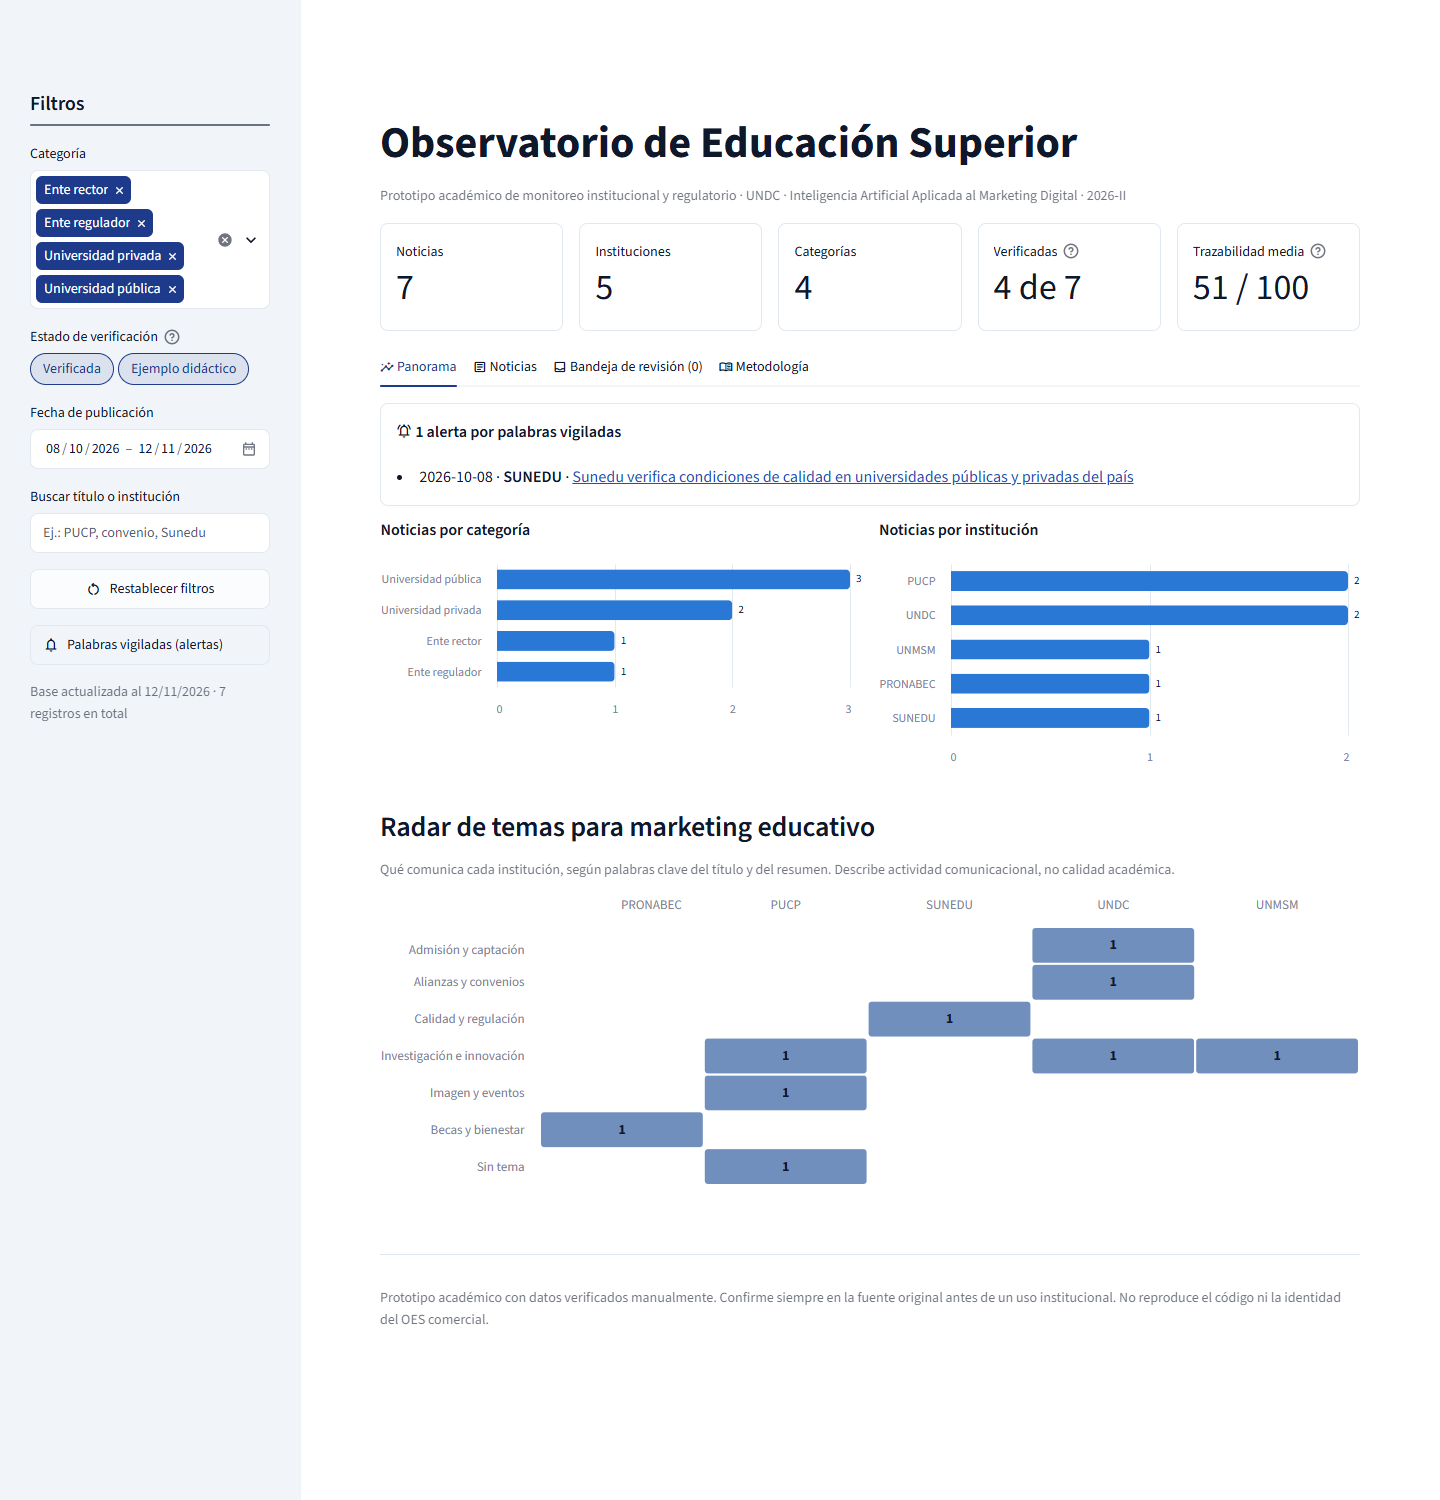
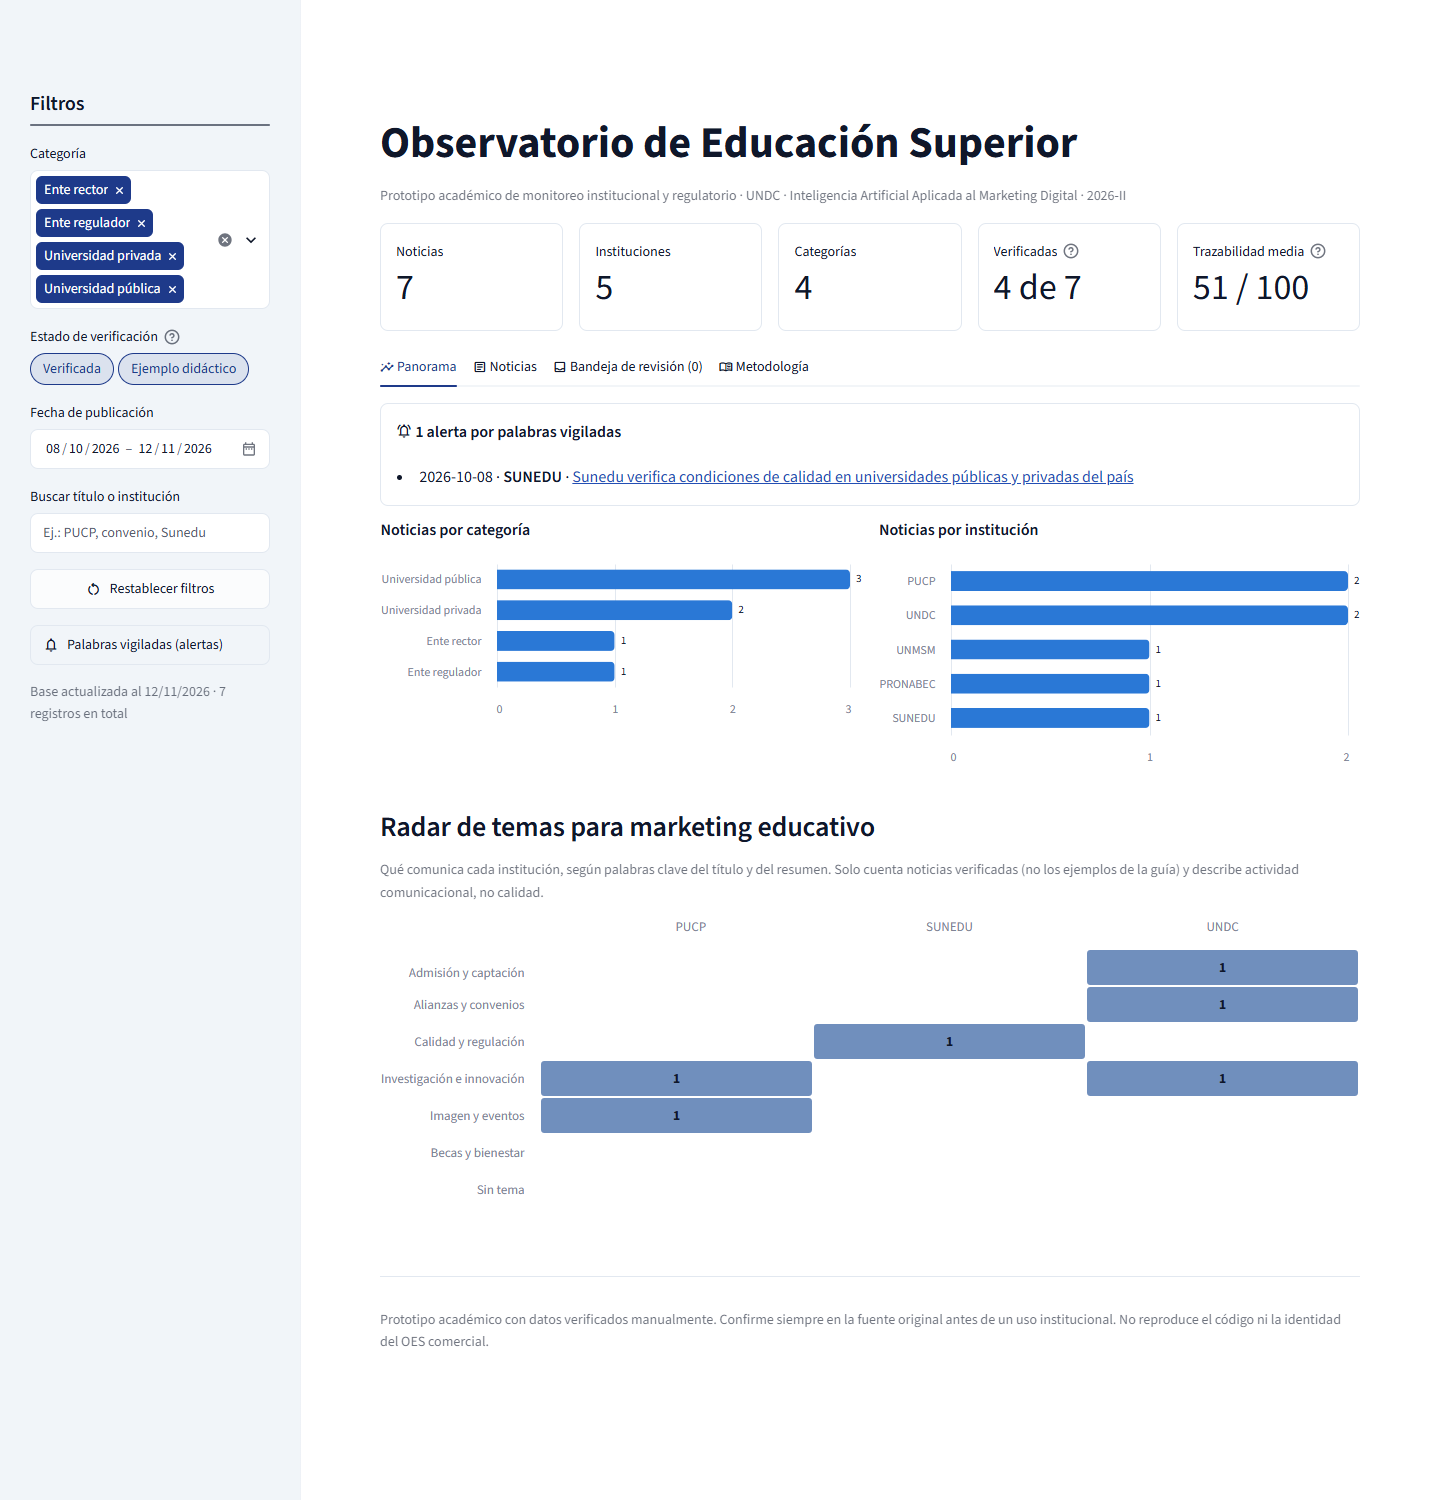
Correcciones de revisión: radar solo con noticias verificadas, verificador con nombre, redacción de gob.pe y README

diff --git a/app.py b/app.py
@@ -9,7 +9,7 @@ import streamlit as st
 import analisis
 import datos
 
-AZUL = "#2a78d6"  # tono único de las barras (paleta validada de la skill dataviz)
+AZUL = "#2a78d6"  # tono único de las barras: contraste 4,4:1 sobre blanco
 RAMPA = ["#cde2fb", "#104281"]  # rampa secuencial azul para el mapa de calor
 GRILLA = "#e2e8f0"
 ESTADOS_VISIBLES = ["Verificada", "Ejemplo didáctico"]
@@ -96,7 +96,8 @@ c5.metric(
     "Trazabilidad media",
     f"{filtrado['trazabilidad'].mean():.0f} / 100" if len(filtrado) else "—",
     border=True,
-    help="Promedio del índice de trazabilidad (ver pestaña Metodología).",
+    help="Promedio del índice de trazabilidad (ver pestaña Metodología). Los ejemplos de la guía valen 0 "
+    "y bajan el promedio: quite «Ejemplo didáctico» en los filtros para ver solo las noticias verificadas.",
 )
 
 pendientes = base[base["estado"] == "Pendiente"]
@@ -144,35 +145,41 @@ with tab_panorama:
 
         st.subheader("Radar de temas para marketing educativo")
         st.caption(
-            "Qué comunica cada institución, según palabras clave del título y del resumen. "
-            "Describe actividad comunicacional, no calidad académica."
+            "Qué comunica cada institución, según palabras clave del título y del resumen. Solo cuenta "
+            "noticias verificadas (no los ejemplos de la guía) y describe actividad comunicacional, no calidad."
         )
         conteo = analisis.radar(filtrado)
-        orden_temas = [*analisis.TEMAS, analisis.SIN_TEMA]
-        celdas = alt.Chart(conteo).encode(
-            y=alt.Y(
-                "tema:N",
-                sort=orden_temas,
-                scale=alt.Scale(domain=orden_temas),
-                title=None,
-                axis=alt.Axis(labelLimit=220, labelFontSize=13),
-            ),
-            x=alt.X("institucion:N", title=None, axis=alt.Axis(orient="top", labelAngle=0, labelFontSize=13)),
-            tooltip=[
-                alt.Tooltip("institucion:N", title="Institución"),
-                alt.Tooltip("tema:N", title="Tema"),
-                alt.Tooltip("noticias:Q", title="Noticias"),
-            ],
-        )
-        tope = max(2, int(conteo["noticias"].max()))
-        mapa = celdas.mark_rect(cornerRadius=4, stroke="white", strokeWidth=2, opacity=1).encode(
-            color=alt.Color("noticias:Q", legend=None, scale=alt.Scale(domain=[0, tope], range=RAMPA))
-        )
-        numeros = celdas.mark_text(fontSize=14, fontWeight="bold").encode(  # texto claro solo sobre celdas oscuras
-            text="noticias:Q",
-            color=alt.condition(alt.datum.noticias >= tope * 0.6, alt.value("white"), alt.value("#0f172a")),
-        )
-        st.altair_chart((mapa + numeros).properties(height=44 * len(orden_temas)), width="stretch")
+        if conteo.empty:
+            st.info(
+                "El radar se llena con noticias verificadas; con los filtros actuales no hay ninguna.",
+                icon=":material/radar:",
+            )
+        else:
+            orden_temas = [*analisis.TEMAS, analisis.SIN_TEMA]
+            celdas = alt.Chart(conteo).encode(
+                y=alt.Y(
+                    "tema:N",
+                    sort=orden_temas,
+                    scale=alt.Scale(domain=orden_temas),
+                    title=None,
+                    axis=alt.Axis(labelLimit=220, labelFontSize=13),
+                ),
+                x=alt.X("institucion:N", title=None, axis=alt.Axis(orient="top", labelAngle=0, labelFontSize=13)),
+                tooltip=[
+                    alt.Tooltip("institucion:N", title="Institución"),
+                    alt.Tooltip("tema:N", title="Tema"),
+                    alt.Tooltip("noticias:Q", title="Noticias"),
+                ],
+            )
+            tope = max(2, int(conteo["noticias"].max()))
+            mapa = celdas.mark_rect(cornerRadius=4, stroke="white", strokeWidth=2, opacity=1).encode(
+                color=alt.Color("noticias:Q", legend=None, scale=alt.Scale(domain=[0, tope], range=RAMPA))
+            )
+            numeros = celdas.mark_text(fontSize=14, fontWeight="bold").encode(  # texto claro solo en celdas oscuras
+                text="noticias:Q",
+                color=alt.condition(alt.datum.noticias >= tope * 0.6, alt.value("white"), alt.value("#0f172a")),
+            )
+            st.altair_chart((mapa + numeros).properties(height=44 * len(orden_temas)), width="stretch")
 
 
 # ----------------------------------------------------------------------------- noticias

diff --git a/tests/test_analisis.py b/tests/test_analisis.py
@@ -49,4 +49,10 @@ def test_alertas_y_radar(db_completa):
     avisos = analisis.alertas(df)
     assert list(avisos["institucion"]) == ["SUNEDU"]  # «Plan de Supervisión»
     radar = analisis.radar(df)
-    assert radar["noticias"].sum() >= len(df)
+    assert radar["noticias"].sum() >= (df["estado"] == "Verificada").sum()  # una noticia puede tener varios temas
+
+
+def test_radar_solo_cuenta_noticias_verificadas(db_completa):
+    radar = analisis.radar(tabla(db_completa))
+    assert set(radar["institucion"]) == {"SUNEDU", "UNDC", "PUCP"}  # sin PRONABEC ni UNMSM de ejemplo
+    assert analisis.SIN_TEMA not in set(radar["tema"])

diff --git a/evidencias/capturar_evidencias.py b/evidencias/capturar_evidencias.py
@@ -100,7 +100,7 @@ with sync_playwright() as p:
             "La Dirección de Responsabilidad Social Universitaria de la UNDC dio la bienvenida, el 21 de "
             "octubre, a los voluntarios del programa YANAPAY 2026-II."
         )
-        form.get_by_label("Verificado por").fill("Equipo de la práctica")
+        form.get_by_label("Verificado por").fill("Jhonatan Napanga Ruiz")
         form.get_by_text("Abrí el enlace y el titular y la fecha coinciden con la fuente").click()
         form.screenshot(path=CARPETA / "N2_formulario_aprobacion.png")
         form.get_by_role("button", name="Aprobar").click()

diff --git a/analisis.py b/analisis.py
@@ -132,7 +132,8 @@ def filtrar(df: pd.DataFrame, categorias, estados, *, desde=None, hasta=None, bu
 
 
 def radar(df: pd.DataFrame) -> pd.DataFrame:
-    """Conteo institución × tema, en formato largo para el mapa de calor."""
+    """Conteo institución × tema de las noticias VERIFICADAS (los ejemplos no representan a nadie)."""
+    df = df[df["estado"] == "Verificada"]
     if df.empty:
         return pd.DataFrame(columns=["institucion", "tema", "noticias"])
     largo = df[["institucion", "temas"]].explode("temas").rename(columns={"temas": "tema"})

diff --git a/agregar_noticias.py b/agregar_noticias.py
@@ -7,7 +7,7 @@ original); los resúmenes son de redacción propia. Fecha = fecha de publicació
 
 from datos import conectar, insertar
 
-VERIFICACION = {"estado": "Verificada", "verificado_por": "Equipo de la práctica", "fecha_verificacion": "2026-11-12"}
+VERIFICACION = {"estado": "Verificada", "verificado_por": "Jhonatan Napanga Ruiz", "fecha_verificacion": "2026-11-12"}
 
 VERIFICADAS = [
     {

diff --git a/evidencias/diagrama_arquitectura.py b/evidencias/diagrama_arquitectura.py
@@ -13,7 +13,7 @@ ETAPAS = [
     (
         "1. FUENTES OFICIALES",
         "Agencia Andina (Sunedu) · portal UNDC · PuntoEdu PUCP",
-        "gob.pe (MINEDU, SUNEDU) rechazó el acceso: HTTP 418",
+        "gob.pe (MINEDU, SUNEDU) bloqueó nuestras herramientas automatizadas (HTTP 418)",
         FONDO,
     ),
     (

diff --git a/README.md b/README.md
@@ -50,5 +50,5 @@ python evidencias/generar_evidencias.py   # con el tablero corriendo: regenera P
 | `evidencias/` | Capturas y salidas de P1–P6 y de la bandeja, CSV exportados y diagrama |
 
 Los 3 registros de ejemplo apuntan a portadas institucionales y tienen trazabilidad 0:
-deben retirarse antes de cualquier uso institucional. La base `oes.db` no se versiona en git
-(se genera con los scripts) y se entrega aparte en el ZIP.
+deben retirarse antes de cualquier uso institucional. La base `oes.db` se incluye en el repositorio
+como base de demostración, para que la versión en línea muestre los mismos datos.
